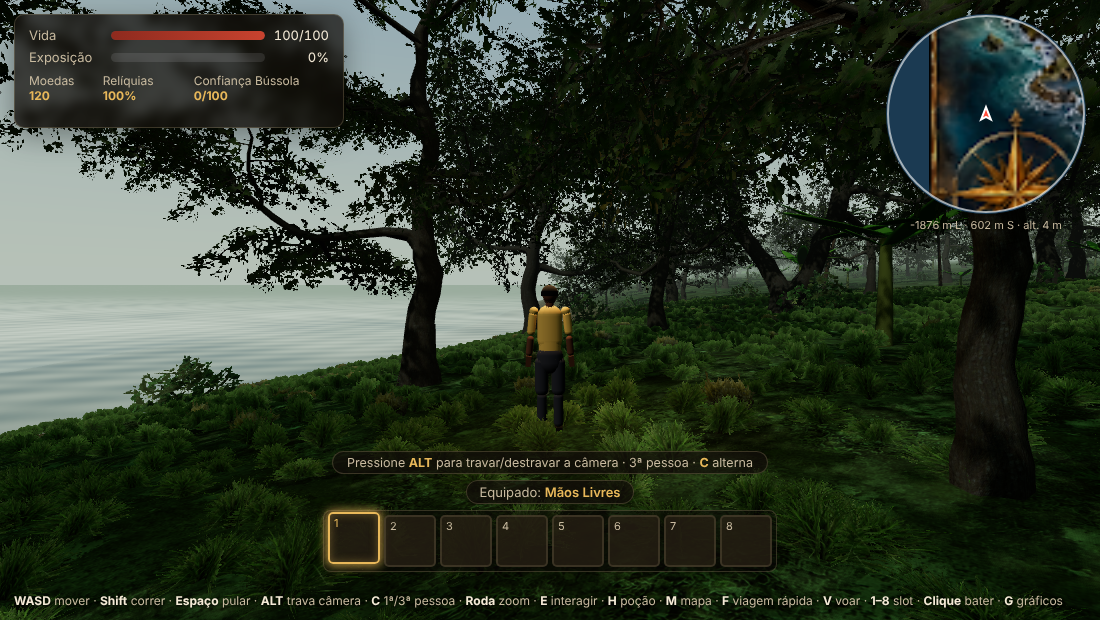
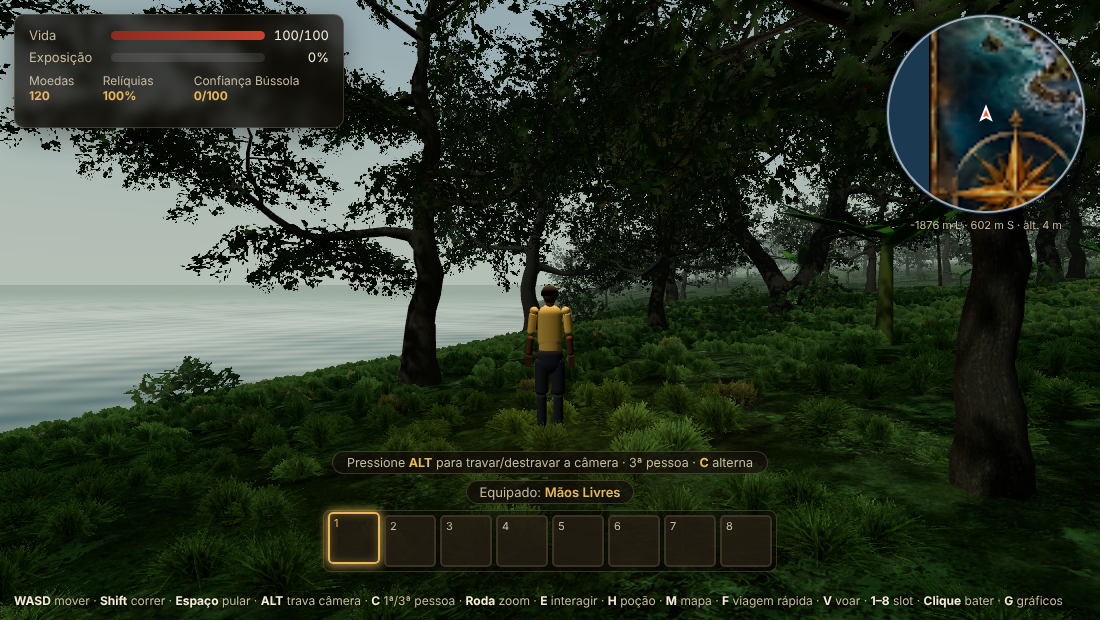
fix: reciclagem das partículas usa módulo também no eixo y
Quadro longo ou câmera subindo rápido (voo) deixava a chuva rápida presa
abaixo da caixa por vários quadros (só somava uma altura da caixa).

Task: weather-atmosphere

Claude-Session: https://claude.ai/code/session_01PeC3KnBVu2DWi1zjfReTy2

diff --git a/tests/unit/weather/weather-sim.test.js b/tests/unit/weather/weather-sim.test.js
@@ -57,6 +57,17 @@ test('stepParticles: a caixa acompanha a câmera (inclusive teleporte)', () => {
   assert.ok(inBox(s, far));
 });
 
+test('stepParticles: quadro longo (dt grande) não deixa partícula fora da caixa', () => {
+  const rng = mulberry32(5);
+  const s = createParticleState({ ...SPEC, fall: 19 }, 300, rng);
+  const c = { x: 0, y: 0, z: 0 };
+  seedParticles(s, c, rng);
+  stepParticles(s, 10, c, 0, 0, 0, rng); // cai 190 m num passo
+  assert.ok(inBox(s, c));
+  stepParticles(s, 0.1, { x: 0, y: 300, z: 0 }, 0, 0, 0, rng); // câmera subiu 300 m
+  assert.ok(inBox(s, { x: 0, y: 300, z: 0 }));
+});
+
 test('stepParticles: vento empurra as partículas', () => {
   const rng = mulberry32(3);
   const s = createParticleState({ ...SPEC, box: [1000, 1000, 1000], fall: 0 }, 10, rng);

diff --git a/src/systems/WeatherSim.js b/src/systems/WeatherSim.js
@@ -82,12 +82,14 @@ export function stepParticles(s, dt, center, windX, windZ, time, rng) {
     let y = p[k + 1] - s.speed[i] * dt;
     let z = p[k + 2] + (windZ * drift + Math.cos(time * 1.1 + sd * 30) * fl) * dt;
     if (y < bottom) {
-      y += h;
+      // Volta para o céu. Módulo (não só +h): mesmo num quadro longo ou com a
+      // câmera subindo rápido (voo) a partícula cai de volta dentro da caixa.
+      y = center.y + wrap(y - center.y, h);
       x = center.x + (rng() - 0.5) * w;
       z = center.z + (rng() - 0.5) * d;
       recycled++;
     } else if (y > top) {
-      y -= h;
+      y = center.y + wrap(y - center.y, h);
     }
     p[k] = center.x + wrap(x - center.x, w);
     p[k + 1] = y;
